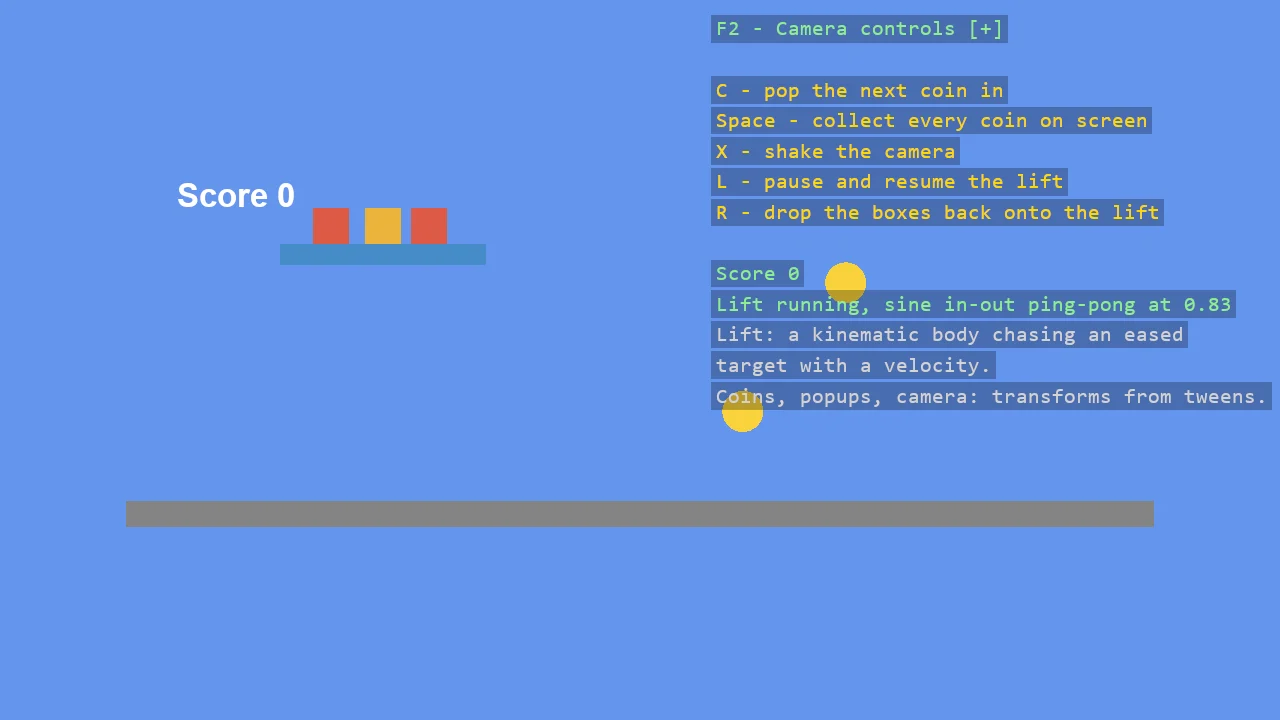
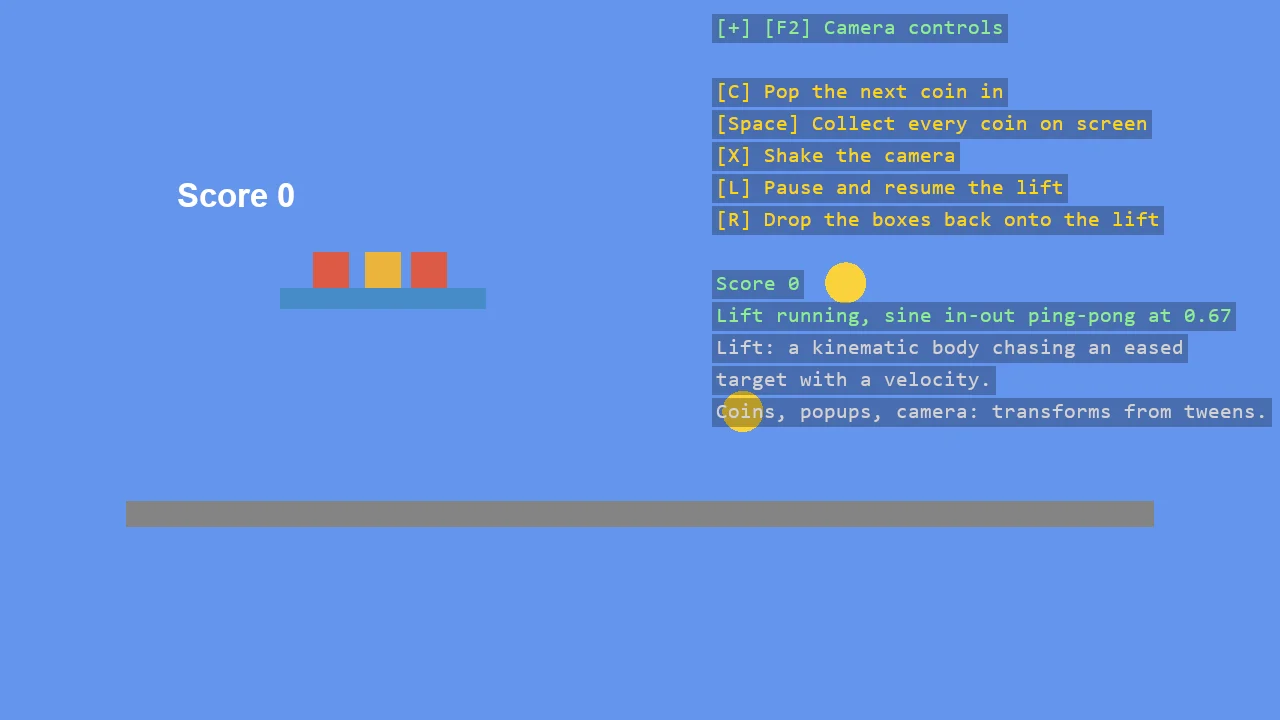
refactor: Consistency updates

Changed region(s): [[0.5312, 0.0917, 1.0, 0.6111], [0.2188, 0.275, 0.4062, 0.4278], [0.5625, 0.0, 0.7812, 0.0611]]

diff --git a/examples/code-only/E02_3D_Material/Program.cs b/examples/code-only/E02_3D_Material/Program.cs
@@ -1,7 +1,6 @@
 using Stride.CommunityToolkit.Bepu;
 using Stride.CommunityToolkit.Engine;
 using Stride.CommunityToolkit.Rendering.ProceduralModels;
-using Stride.CommunityToolkit.Rendering.Text;
 using Stride.CommunityToolkit.Scripts.Utilities;
 using Stride.CommunityToolkit.Skyboxes;
 using Stride.Core.Mathematics;
@@ -151,8 +150,6 @@ void InitializeDebugOverlay()
 {
     var overlay = DebugOverlay.GetOrCreate(game);
 
-    overlay.Position = DisplayPosition.BottomLeft;
-
     // The callback runs every frame the overlay is drawn, so the live light intensity appears without
     // anything having to push it
     instructions = overlay.AddSection("Game", () => GenerateInstructions(skyBoxLightIntensity));
@@ -160,10 +157,10 @@ void InitializeDebugOverlay()
 
 static List<TextElement> GenerateInstructions(float skyBoxLightIntensity)
     => [
-            new("GAME INSTRUCTIONS"),
-            //new("Click the golden sphere and drag to move it (Y-axis locked)"),
-            new("Hold Z to decrease, X to increase Skybox light intensity", Color.Yellow),
-            new($"Intensity: {skyBoxLightIntensity}", Color.Yellow),
+            new("[Z] Dim the skybox light", Color.Gold),
+            new("[X] Brighten the skybox light", Color.Gold),
+            new(""),
+            new($"Skybox light intensity: {skyBoxLightIntensity:0.00}", Color.LightGreen),
         ];
 
 /*

diff --git a/examples/code-only/E02_3D_Primitives/Program.cs b/examples/code-only/E02_3D_Primitives/Program.cs
@@ -1,7 +1,6 @@
 using Stride.CommunityToolkit.Bepu;
 using Stride.CommunityToolkit.Engine;
 using Stride.CommunityToolkit.Rendering.ProceduralModels;
-using Stride.CommunityToolkit.Rendering.Text;
 using Stride.CommunityToolkit.Scripts.Utilities;
 using Stride.CommunityToolkit.Skyboxes;
 using Stride.Core.Mathematics;
@@ -105,14 +104,11 @@ void InitializeDebugOverlay()
     // needs to be called every frame
     var overlay = DebugOverlay.GetOrCreate(game);
 
-    overlay.Position = DisplayPosition.BottomLeft;
-
     instructions = overlay.AddSection("Game", static () =>
     [
-        new("INSTRUCTIONS"),
-        new("Press P to see collidables"),
-        new("Press F11 to see debug meshes"),
-        new("Press R to reset the scene", Color.Yellow),
+        new("[P] Show or hide the collidable gizmos", Color.Gold),
+        new("[F11] Show or hide the debug meshes", Color.Gold),
+        new("[R] Reset the scene", Color.Gold),
     ]);
 }
 /*

diff --git a/examples/code-only/E02_2D_EasingInGame/Program.cs b/examples/code-only/E02_2D_EasingInGame/Program.cs
@@ -129,11 +129,11 @@ void Start(Scene rootScene)
 
     DebugOverlay.GetOrCreate(game).AddSection("Easing", () =>
     [
-        new("C - pop the next coin in", Color.Gold),
-        new("Space - collect every coin on screen", Color.Gold),
-        new("X - shake the camera", Color.Gold),
-        new("L - pause and resume the lift", Color.Gold),
-        new("R - drop the boxes back onto the lift", Color.Gold),
+        new("[C] Pop the next coin in", Color.Gold),
+        new("[Space] Collect every coin on screen", Color.Gold),
+        new("[X] Shake the camera", Color.Gold),
+        new("[L] Pause and resume the lift", Color.Gold),
+        new("[R] Drop the boxes back onto the lift", Color.Gold),
         new(""),
         new($"Score {score}", Color.LightGreen),
         new($"Lift {(lift.IsRunning ? "running" : "paused")}, sine in-out ping-pong at {lift.Progress:0.00}", Color.LightGreen),

diff --git a/examples/code-only/E02_3D_EasingInGame/Program.cs b/examples/code-only/E02_3D_EasingInGame/Program.cs
@@ -272,11 +272,11 @@ void LookFrom(Vector3 eye)
 
 IReadOnlyList<TextElement> BuildOverlayLines() =>
 [
-    new("L - pause and resume the lift", Color.Gold),
-    new("O - open and close the door", Color.Gold),
-    new("P - pop the crystals in again", Color.Gold),
-    new("V - fly to the other viewpoint", Color.Gold),
-    new("R - drop the bodies back onto the platform", Color.Gold),
+    new("[L] Pause and resume the lift", Color.Gold),
+    new("[O] Open and close the door", Color.Gold),
+    new("[P] Pop the crystals in again", Color.Gold),
+    new("[V] Fly to the other viewpoint", Color.Gold),
+    new("[R] Drop the bodies back onto the platform", Color.Gold),
     new(""),
     new($"Lift {(lift.IsRunning ? "running" : "paused")}, sine in-out ping-pong at {lift.Progress:0.00}", Color.LightGreen),
     new($"Door {(doorOpen ? "opening" : "closing")} on a cubic in-out", Color.LightGreen),

diff --git a/examples/code-only/E02_2D_EasingBasics/Program.cs b/examples/code-only/E02_2D_EasingBasics/Program.cs
@@ -177,10 +177,10 @@ void HandleInput()
 
 IReadOnlyList<TextElement> BuildOverlayLines() =>
 [
-    new("Space - run again from the start", Color.Gold),
-    new("P - pause and resume", Color.Gold),
-    new("1 / 2 / 3 / 4 - focus on one lane", Color.Gold),
-    new("0 - show every lane", Color.Gold),
+    new("[Space] Run again from the start", Color.Gold),
+    new("[P] Pause and resume", Color.Gold),
+    new("[1] [2] [3] [4] Focus on one lane", Color.Gold),
+    new("[0] Show every lane", Color.Gold),
     new(""),
     new($"t = {Math.Clamp(elapsed1 / Duration, 0f, 1f):0.00} of a {Duration:0.0} s run" + (paused ? ", paused" : ""), Color.LightGreen),
     new("Lanes 2, 3 and 4 move together:", Color.LightGray),
